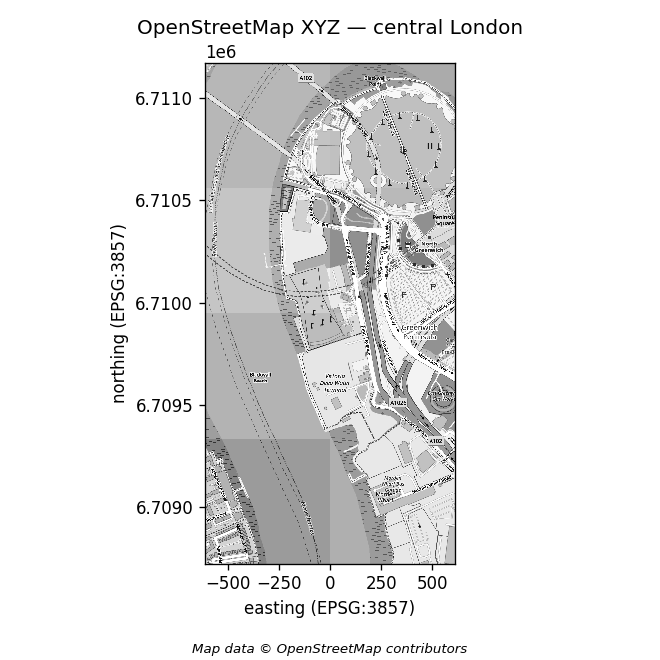
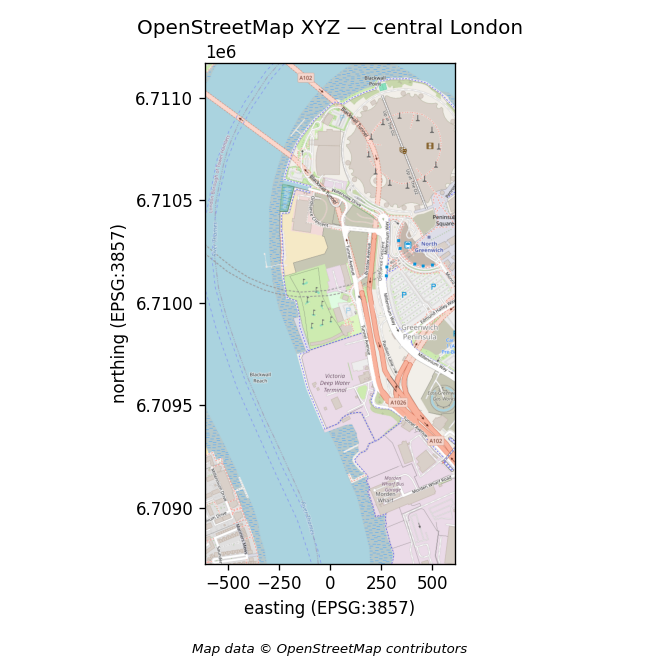
docs: first-run matplotlib note and OSM expand_palette (#133)
Document that plotting needs a separate matplotlib install (no [plot]
extra). Primary OSM snippets use expand_palette=True for full-colour
RGB and note that the default keeps palette indices. Regenerate the
OSM London guide figure to match.

Changed region(s): [[0.2121, 0.0909, 0.697, 0.8788]]

diff --git a/scripts/generate_docs_artifacts.py b/scripts/generate_docs_artifacts.py
@@ -92,14 +92,28 @@ def generate_osm(out_dir: Path) -> dict[str, Any]:
         config,
         OSM_LONDON_BBOX,
         CRS.EPSG_4326,
+        expand_palette=True,
     )
     arr = compute_with_policy(da)
     elapsed = time.perf_counter() - start
 
-    # OSM raster tiles are often palette PNGs → single-band after decode today.
-    # Coords / extent are native EPSG:3857 (query crs= was lon/lat only).
+    # expand_palette=True → RGB; coords / extent are native EPSG:3857
+    # (query crs= was lon/lat only). Default without the flag keeps indices.
     fig, ax = plt.subplots(figsize=(5.5, 5.5))
-    arr.plot.imshow(ax=ax, cmap="gray", add_colorbar=False)
+    if arr.ndim == 3 and "band" in arr.dims and arr.sizes["band"] >= 3:
+        rgb = np.clip(np.asarray(arr.values[..., :3]) / 255.0, 0, 1)
+        ax.imshow(
+            rgb,
+            extent=[
+                float(arr.x.min()),
+                float(arr.x.max()),
+                float(arr.y.min()),
+                float(arr.y.max()),
+            ],
+            origin="upper",
+        )
+    else:
+        arr.plot.imshow(ax=ax, cmap="gray", add_colorbar=False)
     ax.set_title("OpenStreetMap XYZ — central London")
     ax.set_xlabel("easting (EPSG:3857)")
     ax.set_ylabel("northing (EPSG:3857)")
@@ -133,13 +147,14 @@ def generate_osm(out_dir: Path) -> dict[str, Any]:
         "zoom": OSM_ZOOM,
         "shape": list(arr.shape),
         "dims": list(arr.dims),
+        "palette_mode": da.attrs.get("palette_mode"),
         "elapsed_s": round(elapsed, 3),
         "mean": float(np.nanmean(arr.values)),
         "figure": png.name,
         "attribution": "© OpenStreetMap contributors",
         "note": (
-            "OSM PNGs are often palette mode; decoded mosaic is single-band today. "
-            "Query crs= is lon/lat; mosaic attrs are native EPSG:3857."
+            "Generated with expand_palette=True (RGB). Default without it keeps "
+            "palette indices. Query crs= is lon/lat; mosaic attrs are native EPSG:3857."
         ),
     }
     _write_json(out_dir / "osm-london.json", stats)

diff --git a/docs/guides/osm-london.md b/docs/guides/osm-london.md
@@ -5,7 +5,7 @@ Load a small slippy-map window, compute it, plot the mosaic, and read CRS / tran
 Uses `XYZConfig.from_url(OSM_TILE_TEMPLATE, …, **osm_fetch_defaults())` (identifiable User-Agent, max 2 in-flight, ~2 req/s). Include **© OpenStreetMap contributors** when displaying the imagery.
 
 ```{note}
-OSM raster tiles are often **palette PNGs**, so the mosaic may be single-band index values unless you pass `expand_palette=True`. For a full-colour RGB XYZ example see {doc}`gibs-bluemarble`.
+OSM raster tiles are often **palette PNGs**. Pass `expand_palette=True` (as below) for full-colour RGB; without it the mosaic stays single-band palette indices. For another truecolor RGB XYZ path see {doc}`gibs-bluemarble`. Plotting needs matplotlib (`pip install matplotlib` — not a core tilearray dependency); see {doc}`../install`.
 ```
 
 ## Code
@@ -24,7 +24,7 @@ config = XYZConfig.from_url(
 )
 
 bbox = (-0.005, 51.495, 0.005, 51.505)  # query lon/lat near central London
-da = create_array(config, bbox, CRS.EPSG_4326)
+da = create_array(config, bbox, CRS.EPSG_4326, expand_palette=True)
 arr = compute_with_policy(da)
 
 print(arr.shape, arr.dims, da.attrs["service_type"])
@@ -36,7 +36,7 @@ print(
     float(arr.y.max()),
 )
 # Query crs= is lon/lat; mosaic attrs["crs"] is EPSG:3857 (tile-union metres)
-arr.plot.imshow(cmap="gray", add_colorbar=False)
+arr.plot.imshow(rgb="band", add_colorbar=False)
 ```
 
 ## Result
@@ -48,4 +48,4 @@ arr.plot.imshow(cmap="gray", add_colorbar=False)
 
 Map data © OpenStreetMap contributors.
 
-Example shape for this window: about `(1024, 512)` (tile alignment can change that). Axis units on the figure are **EPSG:3857 metres**, not degrees. Stay within OSMF tile policy — prefer the preset; do not raise concurrency past its caps.
+Example shape for this window with `expand_palette=True`: about `(1024, 512, 3)` (tile alignment can change that). Axis units on the figure are **EPSG:3857 metres**, not degrees. Stay within OSMF tile policy — prefer the preset; do not raise concurrency past its caps.

diff --git a/docs/quickstart.md b/docs/quickstart.md
@@ -4,7 +4,7 @@ Five minutes from install to a plotted, georeferenced mosaic. Prefer {py:func}`t
 
 ## First run — OpenStreetMap XYZ
 
-Install ({doc}`install`), then fetch a tiny central-London window:
+Install ({doc}`install`), including **matplotlib** for the plot step (`pip install matplotlib` or conda — not part of core `tilearray`), then fetch a tiny central-London window:
 
 ```python
 from tilearray import XYZConfig, compute_with_policy, create_array
@@ -18,10 +18,11 @@ da = create_array(
     config,
     bbox=(-0.005, 51.495, 0.005, 51.505),
     crs=CRS.EPSG_4326,
+    expand_palette=True,  # full-colour RGB; omit for single-band palette indices
 )
 arr = compute_with_policy(da)
 
-print(arr.shape)  # palette PNGs → single-band; ~ (1024, 512) for this window
+print(arr.shape)  # ~ (1024, 512, 3) for this window
 print(da.attrs["crs"], da.attrs["transform"])
 print(
     float(arr.x.min()),
@@ -29,10 +30,10 @@ print(
     float(arr.x.max()),
     float(arr.y.max()),
 )  # mosaic extent in metres
-arr.plot.imshow(cmap="gray", add_colorbar=False)
+arr.plot.imshow(rgb="band", add_colorbar=False)
 ```
 
-`crs=` is the **query** CRS (how you describe the bbox). XYZ / slippy mosaics are labelled **EPSG:3857** over the tile-union footprint — output CRS is Web Mercator, not lon/lat. Pixels are not client-warped.
+`crs=` is the **query** CRS (how you describe the bbox). XYZ / slippy mosaics are labelled **EPSG:3857** over the tile-union footprint — output CRS is Web Mercator, not lon/lat. Pixels are not client-warped. OSM tiles are often palette PNGs: without `expand_palette=True` the mosaic stays single-band indices (plot with `cmap="gray"`).
 
 ```{image} _static/guides/osm-london.png
 :alt: OpenStreetMap mosaic over a small central London bbox

diff --git a/README.md b/README.md
@@ -30,7 +30,13 @@ or:
 pip install tilearray
 ```
 
-From a clone: `uv sync --dev`. Contributors: `make docs` (HTML), `make docs-artifacts` (regenerate figures).
+Plotting (`arr.plot.imshow`) needs **matplotlib**, which is not a core dependency:
+
+```bash
+pip install matplotlib
+```
+
+(or `conda install matplotlib` / `uv add matplotlib`). From a clone: `uv sync --dev` (includes matplotlib via `dev`). Contributors: `make docs` (HTML), `make docs-artifacts` (regenerate figures).
 
 ## Quick start
 
@@ -48,14 +54,15 @@ da = create_array(
     config,
     bbox=(-0.005, 51.495, 0.005, 51.505),  # query lon/lat
     crs=CRS.EPSG_4326,
+    expand_palette=True,  # full-colour RGB; omit for single-band palette indices
 )
 arr = compute_with_policy(da)
 print(arr.shape, da.attrs["crs"], da.attrs["transform"])
 # Mosaic is EPSG:3857 (Web Mercator tile union), not lon/lat — crs= is query only
-arr.plot.imshow(cmap="gray", add_colorbar=False)
+arr.plot.imshow(rgb="band", add_colorbar=False)
 ```
 
-Palette PNGs decode as single-band. Include © OpenStreetMap contributors when displaying map imagery. Full plotted walkthrough: [quick start](https://matthewjwhittle.github.io/tilearray/quickstart.html) / [OSM guide](https://matthewjwhittle.github.io/tilearray/guides/osm-london.html).
+OSM tiles are often palette PNGs: `expand_palette=True` expands to RGB; the default keeps indices. Include © OpenStreetMap contributors when displaying map imagery. Full plotted walkthrough: [quick start](https://matthewjwhittle.github.io/tilearray/quickstart.html) / [OSM guide](https://matthewjwhittle.github.io/tilearray/guides/osm-london.html).
 
 ### Also — WCS (Environment Agency Lidar)
 

diff --git a/docs/troubleshooting.md b/docs/troubleshooting.md
@@ -81,7 +81,7 @@ Soft-fail (`on_tile_error` / `soft_fail`) is a named plan-time argument, not a `
 ## OpenStreetMap XYZ
 
 - Stay on `XYZConfig.from_url(OSM_TILE_TEMPLATE, …, **osm_fetch_defaults())` (identifiable User-Agent, max 2 in-flight, ~2 req/s).
-- Palette PNGs often decode as **single-band palette indices**, not RGB (pass `expand_palette=True` for RGB). A small London window at z16 is about `(1024, 512)`, not `(256, 256)`.
+- Palette PNGs decode as **single-band palette indices** by default (not RGB). Pass `expand_palette=True` for colour — a small London window at z16 is about `(1024, 512, 3)`, or `(1024, 512)` without expansion.
 - Attribute © OpenStreetMap contributors when displaying imagery.
 
 ## NASA GIBS XYZ

diff --git a/docs/install.md b/docs/install.md
@@ -12,6 +12,14 @@ or:
 pip install tilearray
 ```
 
+Plotting with xarray (`arr.plot.imshow` and similar) needs **matplotlib**. It is not a core tilearray dependency — install it separately before the quickstart plot:
+
+```bash
+pip install matplotlib
+```
+
+or `conda install matplotlib` / `uv add matplotlib`.
+
 Hosted docs: https://matthewjwhittle.github.io/tilearray/
 
 From a source checkout:
@@ -21,5 +29,7 @@ git clone https://github.com/MatthewJWhittle/tilearray.git
 cd tilearray
 uv sync --dev
 ```
+
+(`uv sync --dev` already pulls matplotlib via the `dev` extra.)
 
 Next: {doc}`quickstart` (five-minute OSM first run with plot + CRS) or {doc}`how-it-works`.

diff --git a/CHANGELOG.md b/CHANGELOG.md
@@ -7,6 +7,10 @@ and this project adheres to [Semantic Versioning](https://semver.org/spec/v2.0.0
 
 ## [Unreleased]
 
+### Changed
+
+- Docs first-run path: install / quickstart / README / OSM London guide state that plotting needs a separate `matplotlib` install (not a core dependency; no `[plot]` extra). Primary OSM snippets use `expand_palette=True` for full-colour RGB and note that the default keeps palette indices; guide figure artifact script aligned
+
 ## [0.3.0] - 2026-11-04
 
 Alpha cut: native XYZ/slippy georef, inspect/plan preflight, broader CRS/WMTS fidelity, and a five-minute first-run docs path. The API remains Alpha.
